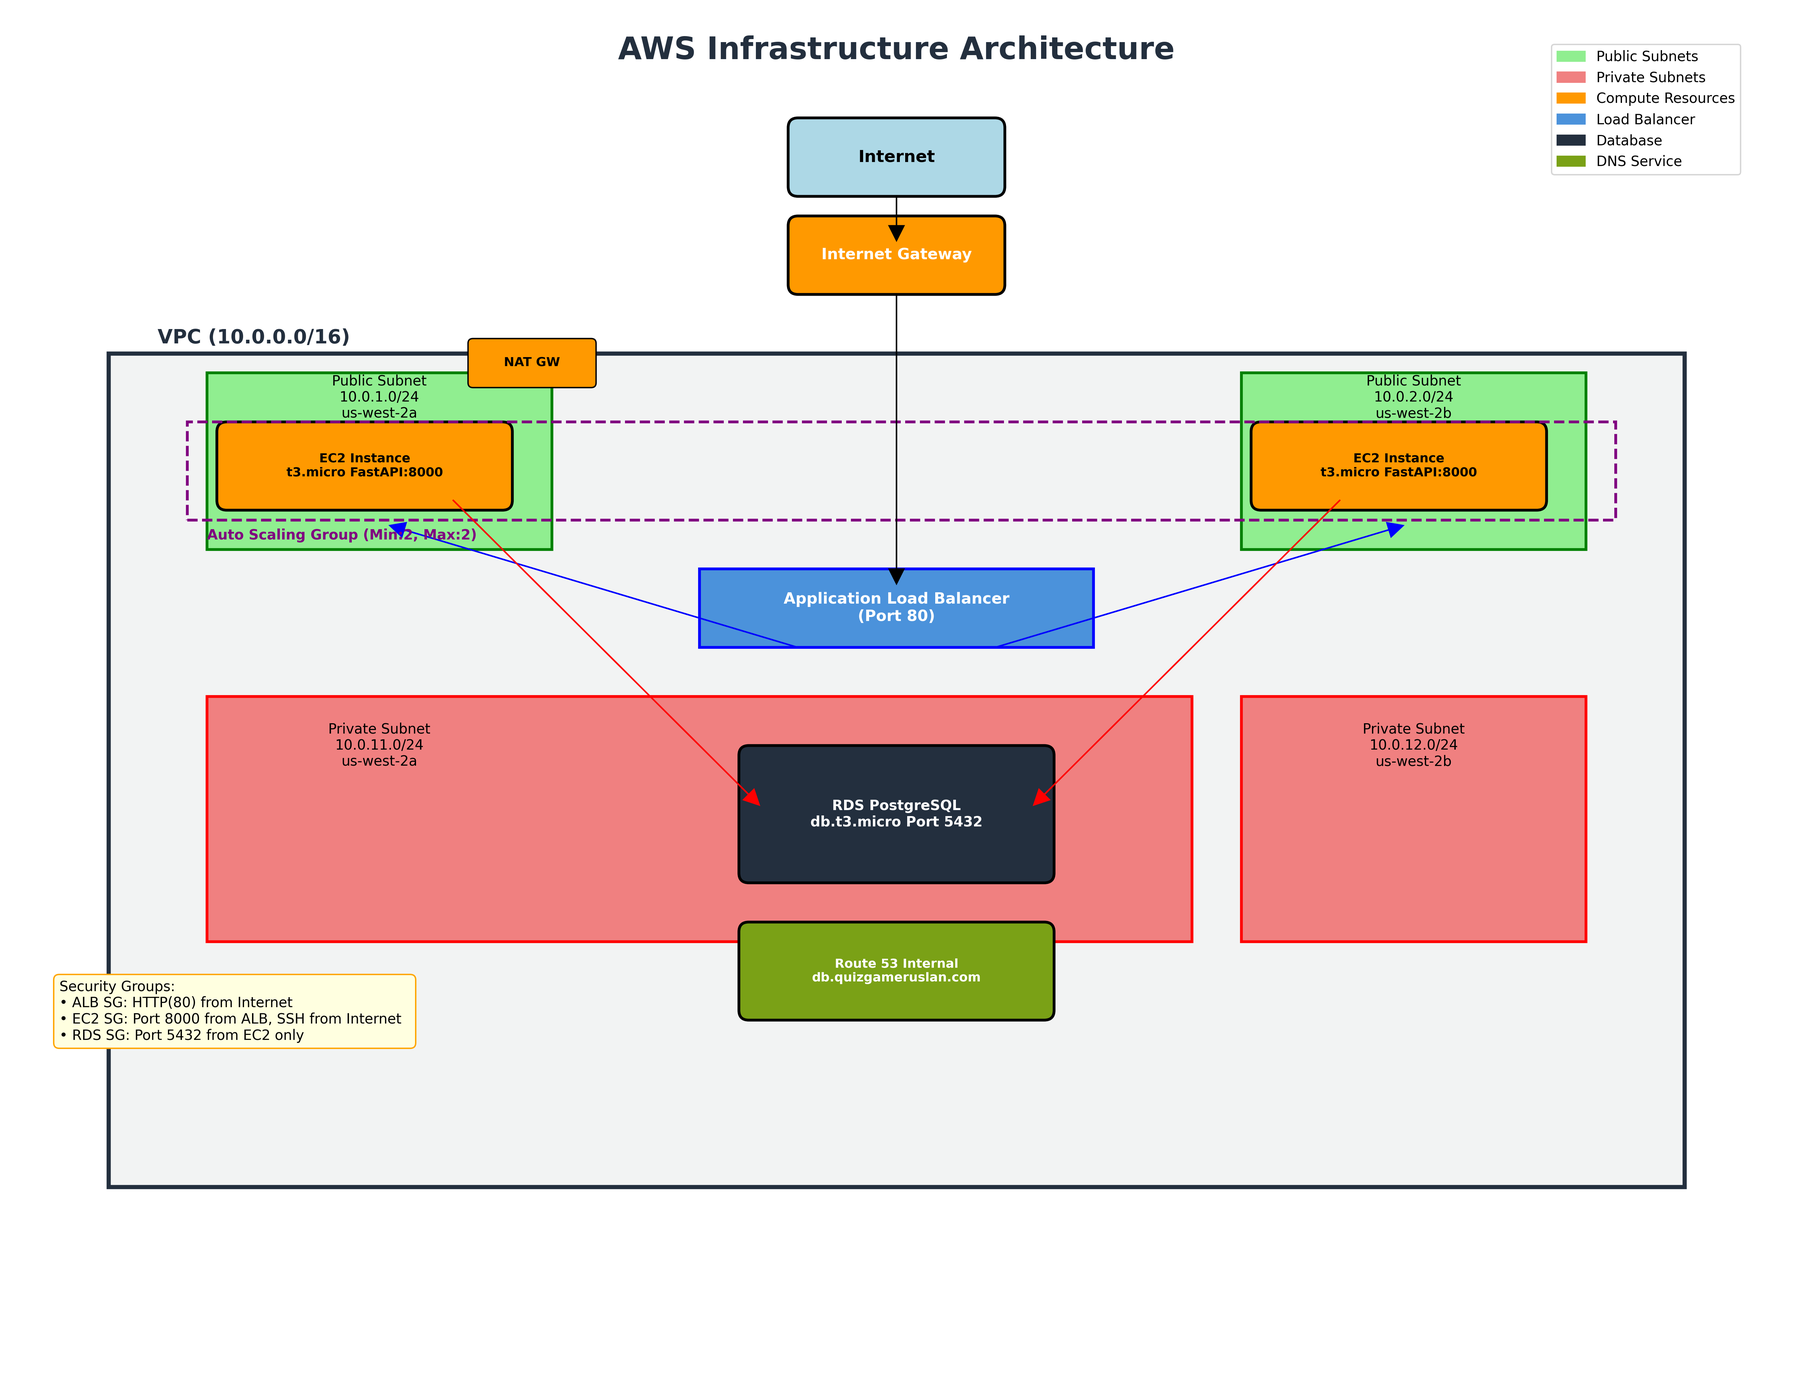
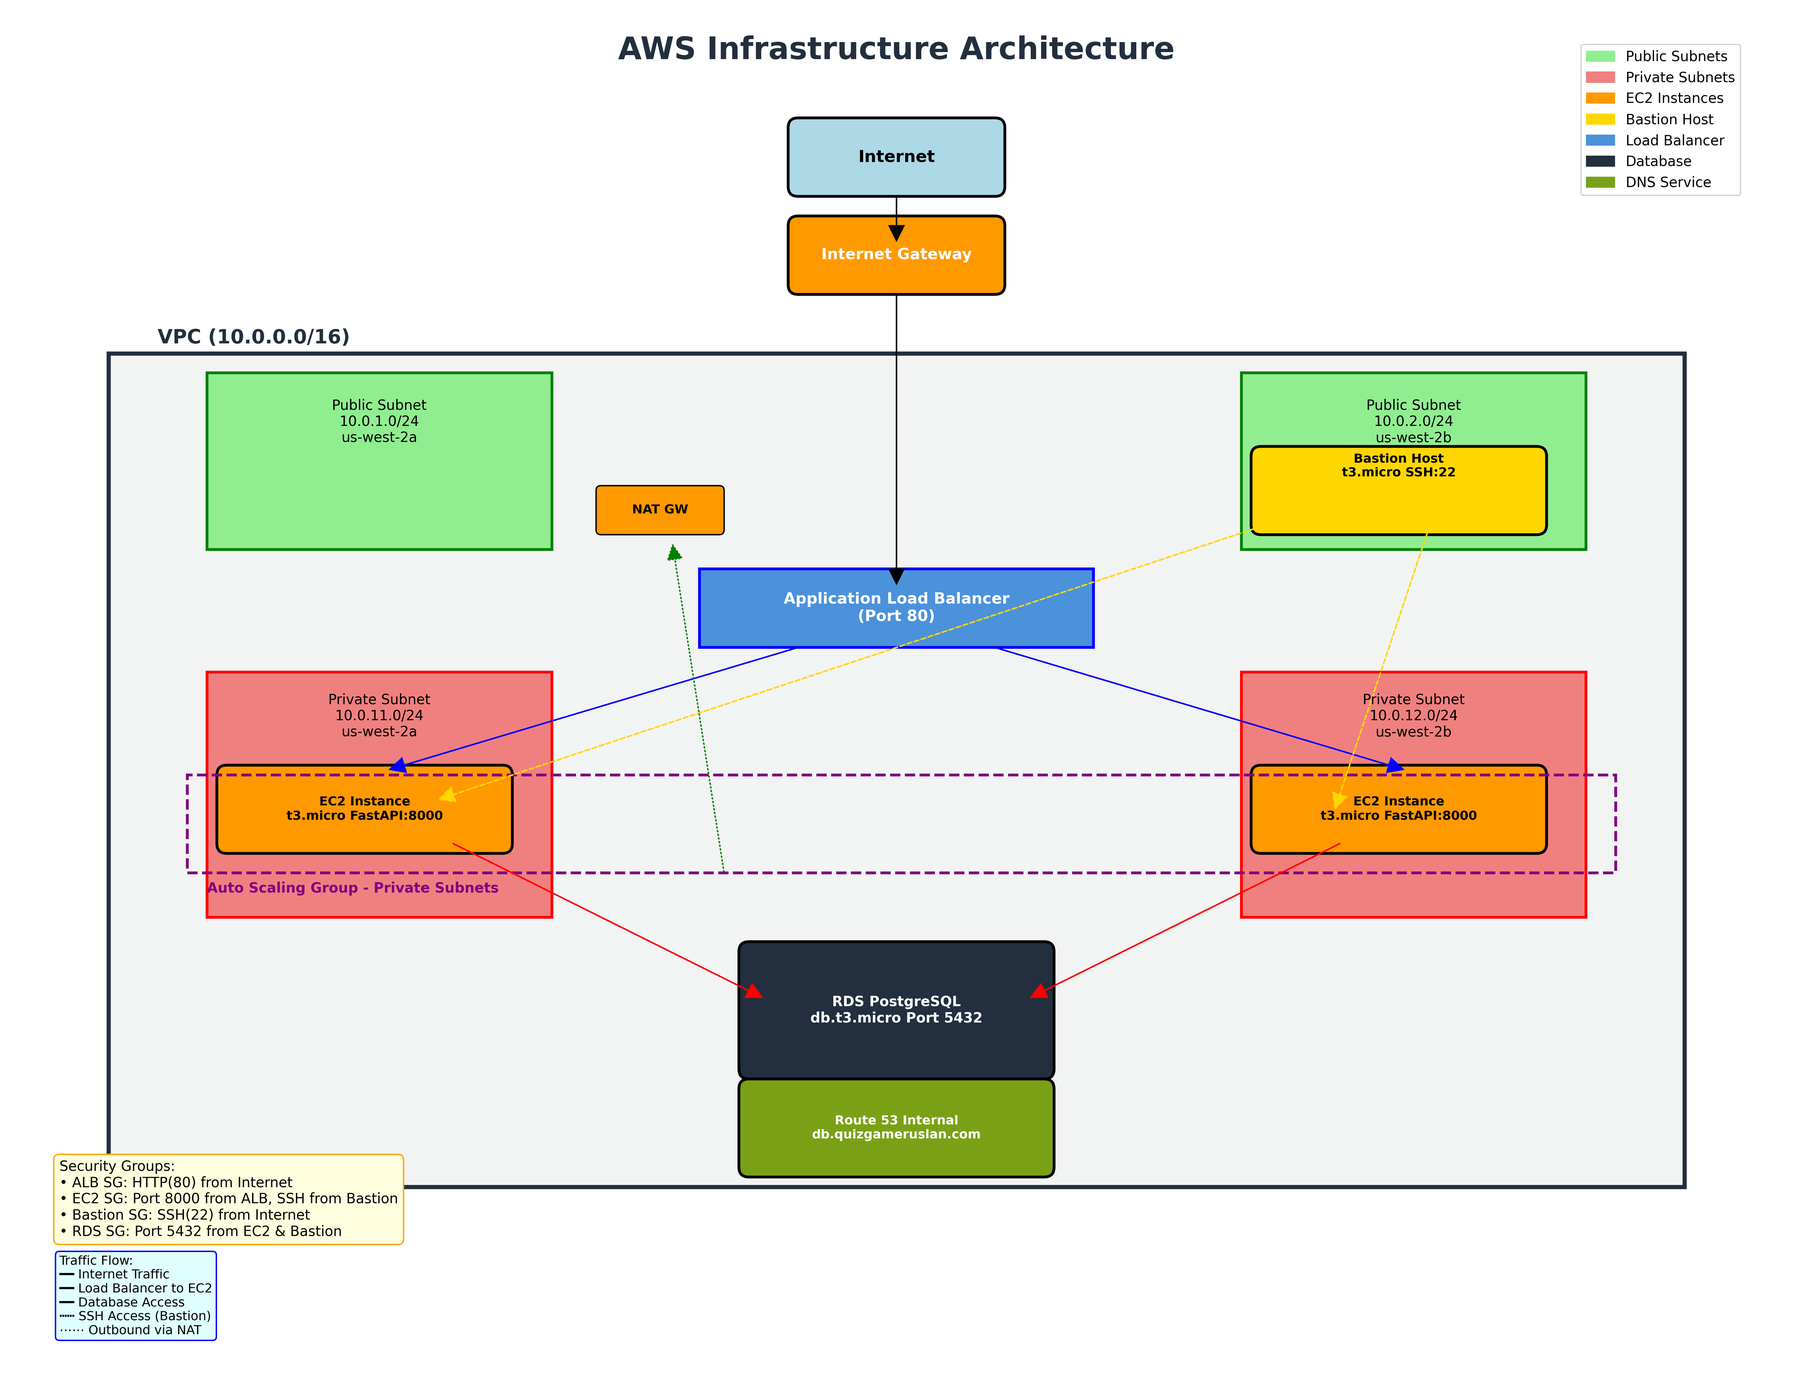
update readme and diagram

diff --git a/infrastructure-diagram.md b/infrastructure-diagram.md
@@ -1,4 +1,4 @@
-# AWS Infrastructure Diagram
+# AWS Infrastructure Diagram - Updated Architecture
 
 ```
                                     Internet
@@ -16,11 +16,13 @@
     │  │  (10.0.1.0/24)      │                │  (10.0.2.0/24)      │  │
     │  │    us-west-2a       │                │    us-west-2b       │  │
     │  │                     │                │                     │  │
-    │  │  ┌───────────────┐  │                │                     │  │
-    │  │  │  NAT Gateway  │  │                │                     │  │
-    │  │  └───────────────┘  │                │                     │  │
+    │  │  ┌───────────────┐  │                │  ┌───────────────┐  │  │
+    │  │  │  NAT Gateway  │  │                │  │ Bastion Host  │  │  │
+    │  │  └───────────────┘  │                │  │   t3.micro    │  │  │
+    │  │                     │                │  │   SSH:22      │  │  │
+    │  │                     │                │  └───────────────┘  │  │
     │  └─────────────────────┘                └─────────────────────┘  │
-    │             │                                                    │
+    │                                                                  │
     │  ┌──────────────────────────────────────────────────────────────┐ │
     │  │                Application Load Balancer                     │ │
     │  │                      (Port 80)                               │ │
@@ -52,45 +54,38 @@
     │  │              │     Port 5432             │                  │  │
     │  │              │     20GB gp2              │                  │  │
     │  │              └───────────────────────────┘                  │  │
+    │  │                                                             │  │
+    │  │              ┌───────────────────────────┐                  │  │
+    │  │              │   Route 53 (Internal)     │                  │  │
+    │  │              │ db.quizgameruslan.com     │                  │  │
+    │  │              │    → RDS Endpoint         │                  │  │
+    │  │              └───────────────────────────┘                  │  │
     │  └─────────────────────────────────────────────────────────────┘  │
     └──────────────────────────────────────────────────────────────────┘
-
-                              ┌─────────────────┐
-                              │   Route 53      │
-                              │  Hosted Zone    │
-                              │ quizgameruslan  │
-                              │     .com        │
-                              └─────────────────┘
-                                       │
-                              ┌─────────────────┐
-                              │ CNAME Record    │
-                              │ db.quizgame...  │
-                              │ → RDS Endpoint  │
-                              └─────────────────┘
 ```
 
 ## Component Details
 
 ### Security Groups
 ```
-┌─────────────────┐    ┌─────────────────┐    ┌─────────────────┐
-│   ALB SG        │    │   EC2 SG        │    │   RDS SG        │
-│                 │    │                 │    │                 │
-│ Inbound:        │    │ Inbound:        │    │ Inbound:        │
-│ • HTTP (80)     │    │ • From ALB SG   │    │ • From EC2 SG   │
-│   from Internet │    │   Port 8000     │    │   Port 5432     │
-│                 │    │ • SSH (22)      │    │                 │
-│ Outbound:       │    │   from Internet │    │ Outbound:       │
-│ • All traffic   │    │                 │    │ • All traffic   │
-│                 │    │ Outbound:       │    │                 │
-│                 │    │ • All traffic   │    │                 │
-└─────────────────┘    └─────────────────┘    └─────────────────┘
+┌─────────────────┐  ┌─────────────────┐  ┌─────────────────┐  ┌─────────────────┐
+│   ALB SG        │  │   EC2 SG        │  │ Bastion SG      │  │   RDS SG        │
+│                 │  │                 │  │                 │  │                 │
+│ Inbound:        │  │ Inbound:        │  │ Inbound:        │  │ Inbound:        │
+│ • HTTP (80)     │  │ • From ALB SG   │  │ • SSH (22)      │  │ • From EC2 SG   │
+│   from Internet │  │   Port 8000     │  │   from Internet │  │   Port 5432     │
+│                 │  │ • From Bastion  │  │                 │  │ • From Bastion  │
+│ Outbound:       │  │   SSH (22)      │  │ Outbound:       │  │   Port 5432     │
+│ • All traffic   │  │                 │  │ • All traffic   │  │                 │
+│                 │  │ Outbound:       │  │                 │  │ Outbound:       │
+│                 │  │ • All traffic   │  │                 │  │ • All traffic   │
+└─────────────────┘  └─────────────────┘  └─────────────────┘  └─────────────────┘
 ```
 
 ### Auto Scaling Group
 ```
 ┌─────────────────────────────────────────────────────────────┐
-│                    Auto Scaling Group                       │
+│              Auto Scaling Group (Private Subnets)           │
 │                                                             │
 │ • Desired Capacity: 2                                       │
 │ • Min Size: 2                                               │
@@ -101,24 +96,61 @@
 │ ┌─────────────────┐           ┌─────────────────┐           │
 │ │   EC2 Instance  │           │   EC2 Instance  │           │
 │ │   AZ: us-west-2a│           │   AZ: us-west-2b│           │
+│ │ (Private Subnet)│           │ (Private Subnet)│           │
 │ └─────────────────┘           └─────────────────┘           │
 └─────────────────────────────────────────────────────────────┘
 ```
 
 ## Traffic Flow
 
-1. **User Request** → Internet → Route 53 (optional)
-2. **Internet Gateway** → VPC
-3. **Application Load Balancer** → Distributes traffic
-4. **Target Group** → Routes to healthy EC2 instances
-5. **EC2 Instances** → Process FastAPI requests
-6. **Database Connection** → EC2 connects to RDS via private network
-7. **Outbound Traffic** → EC2 → NAT Gateway → Internet Gateway
+### 1. **Web Traffic Flow**
+1. **User Request** → Internet → Internet Gateway → VPC
+2. **Application Load Balancer** → Distributes traffic to private subnets
+3. **Target Group** → Routes to healthy EC2 instances in private subnets
+4. **EC2 Instances** → Process FastAPI requests (not directly accessible)
+
+### 2. **SSH Access Flow**
+1. **Admin** → SSH to Bastion Host in public subnet
+2. **Bastion Host** → SSH to EC2 instances in private subnets
+3. **Secure Access** → No direct SSH from internet to private instances
+
+### 3. **Database Access Flow**
+1. **EC2 Instances** → Connect to RDS in private subnets via internal DNS
+2. **Internal DNS** → Route 53 resolves db.quizgameruslan.com to RDS endpoint
+3. **Optional** → Bastion can also access RDS for troubleshooting
+
+### 4. **Outbound Traffic Flow**
+1. **Private EC2s** → NAT Gateway in public subnet
+2. **NAT Gateway** → Internet Gateway → Internet
+3. **Updates/Downloads** → Secure outbound access without inbound exposure
 
 ## Key Features
 
+- **Enhanced Security**: EC2 instances in private subnets, no direct internet access
+- **Bastion Host**: Secure SSH access via jump server in public subnet
 - **High Availability**: Resources deployed across 2 AZs
-- **Security**: RDS in private subnets, security groups restrict access
-- **Scalability**: Auto Scaling Group maintains desired capacity
-- **Load Distribution**: ALB distributes traffic evenly
-- **Database Access**: Custom DNS via Route 53 for RDS endpoint
+- **Load Distribution**: ALB distributes traffic to private EC2 instances
+- **Database Security**: RDS in private subnets with internal DNS resolution
+- **Outbound Access**: NAT Gateway enables private instances to reach internet
+- **Network Isolation**: Clear separation between public (bastion, ALB, NAT) and private (EC2, RDS) tiers
+
+## SSH Access Commands
+
+```bash
+# 1. SSH to bastion host
+ssh -i path/to/your-key.pem ec2-user@<BASTION_PUBLIC_IP>
+
+# 2. From bastion, SSH to private EC2 instances
+ssh -i path/to/your-key.pem ec2-user@<PRIVATE_EC2_IP>
+
+# 3. Optional: Copy key to bastion for easier access
+scp -i path/to/your-key.pem path/to/your-key.pem ec2-user@<BASTION_PUBLIC_IP>:~/.ssh/
+```
+
+## Architecture Benefits
+
+1. **Security**: Private instances not directly accessible from internet
+2. **Compliance**: Follows AWS security best practices
+3. **Scalability**: Auto Scaling Group can adjust capacity as needed
+4. **Monitoring**: Centralized access through bastion host for auditing
+5. **Cost Optimization**: Single NAT Gateway serves all private subnets

diff --git a/README.md b/README.md
@@ -7,7 +7,8 @@ This project sets up a full AWS infrastructure using Terraform to deploy a FastA
 ## 🔧 Project Structure
 
 * `vpc.tf` — VPC, public and private subnets, internet gateway, NAT gateway, and route tables
-* `security_groups.tf` — Security groups for ALB and EC2 instances
+* `security_groups.tf` — Security groups for ALB, EC2 instances, bastion host, and RDS
+* `bastion.tf` — Bastion host EC2 instance for secure SSH access to private instances
 * `launch_template.tf` — EC2 launch template (AMI, instance type, EBS volume, user\_data script)
 * `alb.tf` — Application Load Balancer (ALB), target group, and HTTP listener
 * `autoscaling.tf` — Auto Scaling Group with two EC2 instances
@@ -71,14 +72,17 @@ Expected output:
 ## 📃 Common Commands
 
 ```bash
-# SSH into EC2 instance (replace with correct IP and key path)
-ssh -i path/to/key.pem ec2-user@<EC2-Public-IP>
+# SSH to bastion host (jump server)
+ssh -i path/to/key.pem ec2-user@<BASTION-PUBLIC-IP>
+
+# From bastion, SSH to private EC2 instances
+ssh -i path/to/key.pem ec2-user@<PRIVATE-EC2-IP>
 
 # Check if FastAPI is up
 curl http://<ALB-DNS>/health
 
-# Connect to PostgreSQL from EC2
-psql -h <RDS-ENDPOINT> -U postgres -d postgres -p 55433
+# Connect to PostgreSQL from EC2 or bastion
+psql -h <RDS-ENDPOINT> -U postgres -d postgres -p 5432
 ```
 
 ---
@@ -103,10 +107,13 @@ Other resources (VPC, subnets, etc.) use hardcoded defaults. You can change them
 
 ## 🔧 Features
 
-* Auto Scaling Group ensures exactly **2 EC2 instances** always run
-* ALB provides a **single entry point** and balances traffic to EC2s
+* **Enhanced Security**: EC2 instances in private subnets, no direct internet access
+* **Bastion Host**: Secure SSH access via jump server in public subnet
+* Auto Scaling Group ensures exactly **2 EC2 instances** always run in private subnets
+* ALB provides a **single entry point** and balances traffic to private EC2s
 * FastAPI app is deployed using a `user_data` script
 * PostgreSQL RDS is hosted in private subnets for security
+* **NAT Gateway**: Enables private instances to access internet for updates
 * DNS aliasing via Route 53 for easy access to the database
 
 ---
@@ -139,14 +146,16 @@ This project provisions the following AWS resources using Terraform:
 
 ### 2. **Security Groups**
 
-- **ALB Security Group** allowing inbound HTTP (port 80)
-- **EC2 Security Group** allowing traffic from ALB and outbound internet access
-- **RDS Security Group** allowing access only from EC2 instances
+- **ALB Security Group** allowing inbound HTTP (port 80) from internet
+- **EC2 Security Group** allowing traffic from ALB (port 8000) and SSH from bastion (port 22)
+- **Bastion Security Group** allowing SSH (port 22) from internet
+- **RDS Security Group** allowing access from EC2 instances and bastion (port 5432)
 
 ### 3. **Compute**
 
 - **Launch Template** defining EC2 instance settings (AMI, instance type `t3.micro`, volume, user\_data)
-- **Auto Scaling Group (ASG)** that always maintains 2 EC2 instances (1 in each AZ)
+- **Auto Scaling Group (ASG)** that always maintains 2 EC2 instances in private subnets (1 in each AZ)
+- **Bastion Host** EC2 instance (`t3.micro`) in public subnet for secure SSH access
 - **User Data Script** installs FastAPI, pulls your GitHub repo, sets up environment, and runs Uvicorn
 
 ### 4. **Load Balancing**
@@ -155,7 +164,7 @@ This project provisions the following AWS resources using Terraform:
   - Distributes traffic across the EC2 instances
   - Listens on port 80
   - Performs health checks on `/health`
-- **Target Group** associated with the ALB for EC2 targets on port 8000
+- **Target Group** associated with the ALB for private EC2 targets on port 8000
 
 ### 5. **Database**
 
@@ -164,7 +173,7 @@ This project provisions the following AWS resources using Terraform:
   - Instance class: `db.t3.micro`
   - 20 GB gp2 storage
   - Deployed in private subnets
-  - Only accessible from EC2 instances
+  - Only accessible from EC2 instances and bastion host
 
 ### 6. **DNS**
 
@@ -173,22 +182,47 @@ This project provisions the following AWS resources using Terraform:
   - CNAME record pointing `db.quizgameruslan.com` to RDS endpoint
 
 Ensure sensitive data (like `.pem` keys or credentials) is never committed.
-![alt text](aws_infrastructure_diagram.png)
+
+## 🔐 SSH Access Setup
+
+### Step 1: Connect to Bastion Host
+```bash
+ssh -i path/to/your-key.pem ec2-user@<BASTION_PUBLIC_IP>
+```
+
+### Step 2: Copy SSH Key to Bastion (One-time setup)
+```bash
+scp -i path/to/your-key.pem path/to/your-key.pem ec2-user@<BASTION_PUBLIC_IP>:~/.ssh/
+```
+
+### Step 3: From Bastion, SSH to Private EC2 Instances
+```bash
+ssh -i ~/.ssh/your-key.pem ec2-user@<PRIVATE_EC2_IP>
+```
+
+### Alternative: SSH Tunneling (Advanced)
+```bash
+# Direct SSH to private instance via bastion
+ssh -i path/to/your-key.pem -J ec2-user@<BASTION_PUBLIC_IP> ec2-user@<PRIVATE_EC2_IP>
+```
+
+![Infrastructure](aws_infrastructure_diagram.png)
 ---
 
 ## 💰 Estimated Monthly and Annual Costs
 
 | Resource                     | Quantity    | Monthly Estimate | Notes                                                            |
 | ---------------------------- | ----------- | ---------------- | ---------------------------------------------------------------- |
-| EC2 `t3.micro`               | 2 instances | \~\$16.70        | On-demand, 750 hours each (\~\$8.35/month/instance in us-west-2) |
+| EC2 `t3.micro` (Private)     | 2 instances | \~\$16.70        | On-demand, 750 hours each (\~\$8.35/month/instance in us-west-2) |
+| EC2 `t3.micro` (Bastion)     | 1 instance  | \~\$8.35         | Bastion host in public subnet                                    |
 | Auto Scaling Group           | included    | –                | No extra cost beyond EC2 usage                                   |
 | Application Load Balancer    | 1 ALB       | \~\$18.00        | Includes \~730 hours + minimal data processed                    |
 | RDS PostgreSQL `db.t3.micro` | 1 instance  | \~\$15.00        | 20 GB gp2, no Multi-AZ                                           |
-| 20 GB gp2 for EC2            | 2 volumes   | \~\$2.00         | \~\$0.10/GB                                                      |
+| EBS gp2 for EC2              | 3 volumes   | \~\$3.00         | \~\$0.10/GB (20GB each)                                          |
 | NAT Gateway                  | 1 gateway   | \~\$32.40        | \$0.045/hour + small data processing                             |
 | Route 53 (hosted zone)       | 1 zone      | \~\$0.50         | \$0.50/month/zone                                                |
-| **Total Monthly**            | –           | **\~\$84.60**    | May vary based on usage and region                               |
-| **Total Annual**             | –           | **\~\$1,015.20** | Excludes data transfer costs                                     |
+| **Total Monthly**            | –           | **\~\$93.95**    | May vary based on usage and region                               |
+| **Total Annual**             | –           | **\~\$1,127.40** | Excludes data transfer costs                                     |
 
 > 💡 **Note**: This is a simplified estimation based on AWS On-Demand pricing in the `us-west-2` region. Prices may vary based on actual usage, data transfer, and region. Use [AWS Pricing Calculator](https://calculator.aws.amazon.com) for more precise estimates.
 
